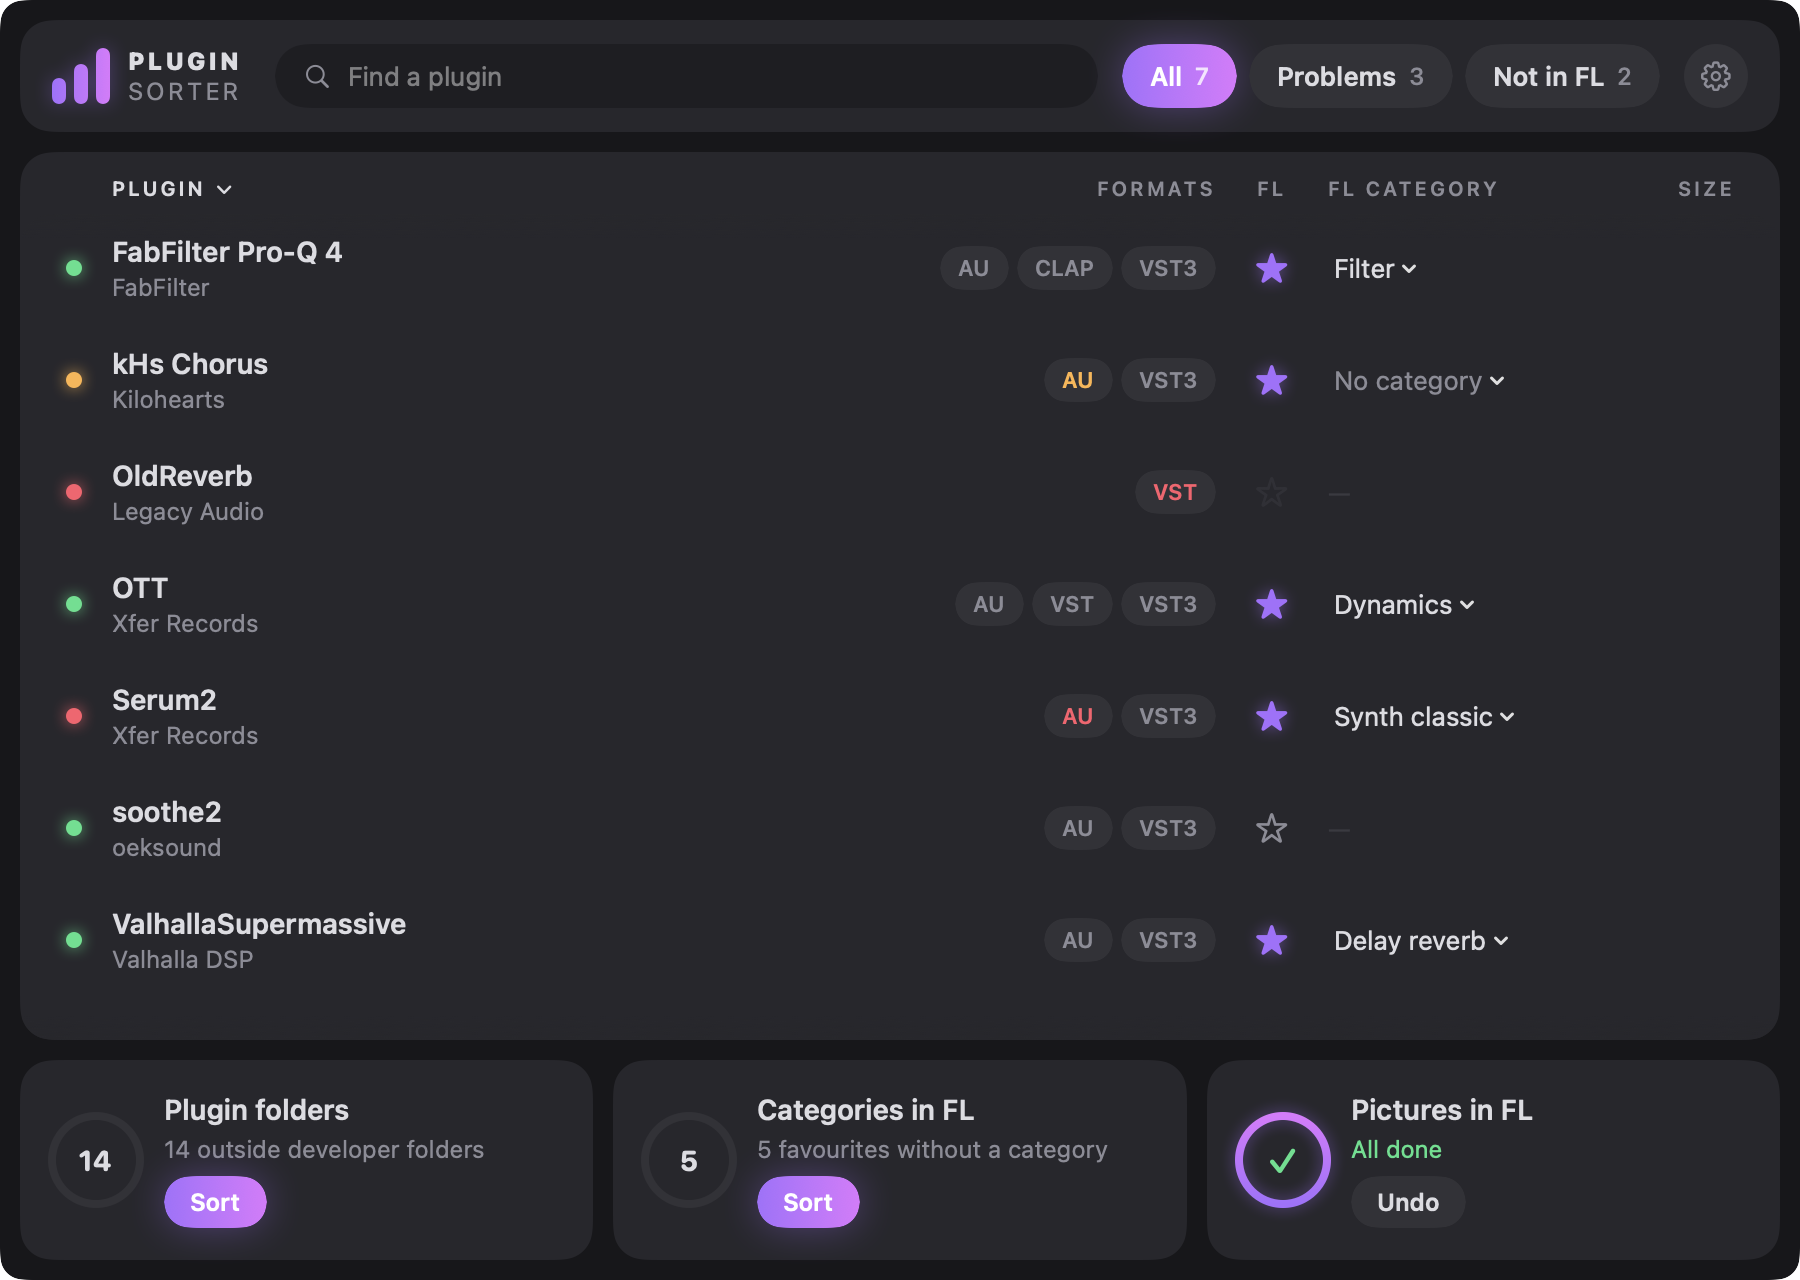
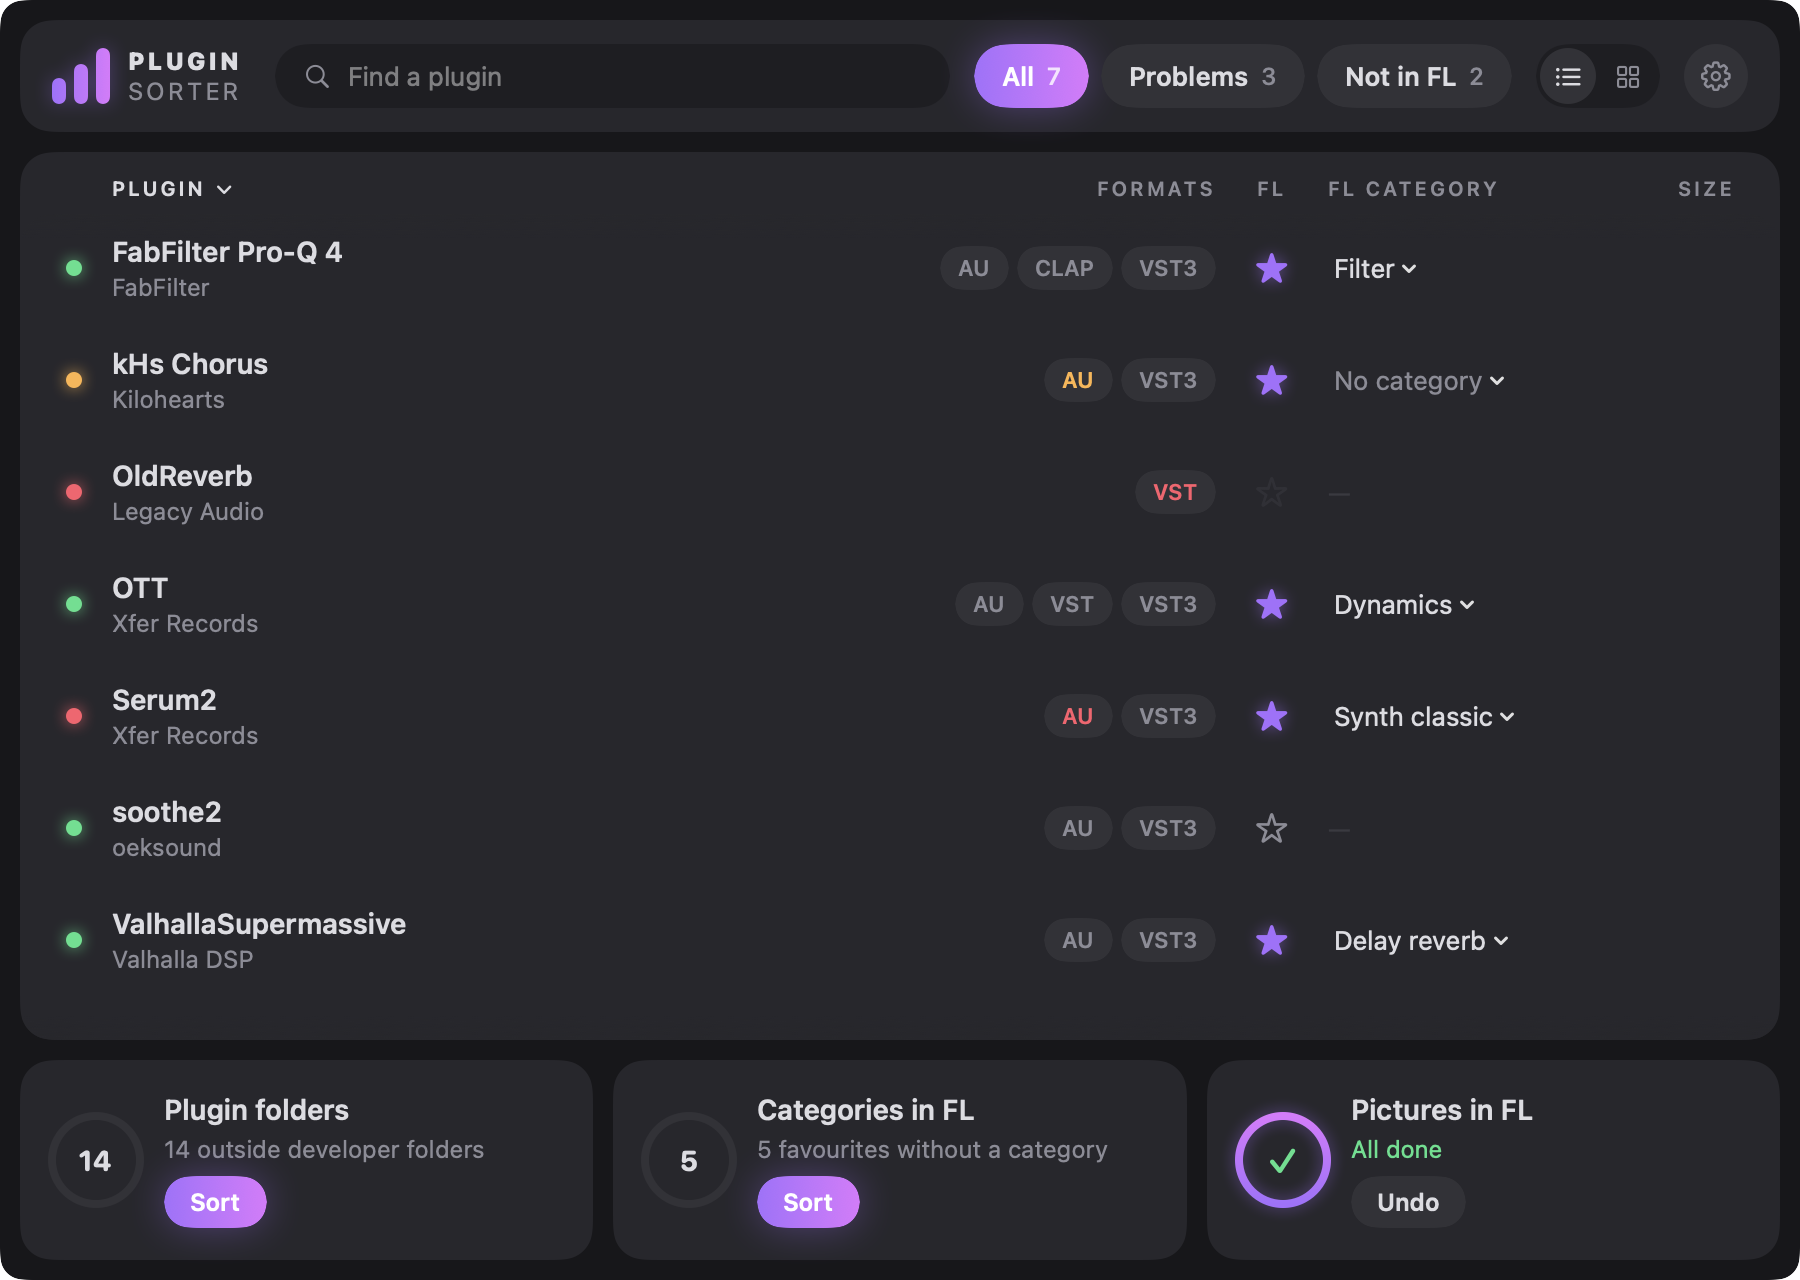
docs: show the card view in the README and screenshots

Changed region(s): [[0.5289, 0.0312, 0.9022, 0.0938]]

diff --git a/tools/snapshot.swift b/tools/snapshot.swift
@@ -1,5 +1,5 @@
 // Renders the main window with demo data for the README:
-// snapshot <out.png> [lang] [main|main-expanded|banner|sheet|settings] [violet|mint|amber|ice]
+// snapshot <out.png> [lang] [main|main-expanded|cards|cards-panel|banner|sheet|settings] [violet|mint|amber|ice]
 import SwiftUI
 import AppKit
 
@@ -51,6 +51,11 @@ struct Snapshot {
             let (favorites, titles) = demoFavorites(for: manager, in: dir)
             model = AppModel(sorter: sorter, manager: manager, favorites: favorites, pictures: demoLibrary(titles, in: dir))
             model.flRoot = dir
+        }
+        // Always set the view: UserDefaults persist between runs of this tool
+        UserDefaults.standard.set(mode.hasPrefix("cards") ? "cards" : "list", forKey: "viewMode")
+        if mode == "cards-panel" {
+            model.expanded = model.rows.first { $0.name == "Serum2" }?.id
         }
         if mode == "banner" {
             model.banner = Banner(source: .favorites(.sorted(12)), isError: false, undo: {})

diff --git a/README.ru.md b/README.ru.md
@@ -118,6 +118,14 @@ cd plugin-sorter
 - **Звезда** добавляет плагин в браузер и плагин-пикер FL или убирает; в раскрытой строке можно
   выбрать отдельный формат. **Категория** рядом — меню папок категорий FL.
 - **Клик по заголовку столбца** сортирует по имени или по размеру.
+- **Переключиться на карточки** можно кнопкой вверху справа, рядом с шестерёнкой. Каждый плагин становится
+  маленькой плиткой с картинкой из FL; плагины без картинки получают автоматическую карточку, видную только
+  здесь. Клик по плитке открывает подробности в панели справа, как область просмотра в Finder. Закрыть её
+  можно крестиком, клавишей Esc или повторным кликом по плитке. Выбранный вид запоминается.
+
+<p align="center">
+  <img src="docs/screenshot-cards.png" width="760" alt="Плагины в виде карточек, один открыт в панели">
+</p>
 
 Внизу — три дела, у каждого видно, сколько осталось:
 

diff --git a/README.md b/README.md
@@ -117,6 +117,14 @@ plugin with all its formats. Each row shows whether it works, whether it's in FL
 - **The star** adds the plugin to FL's browser and plugin picker or removes it; inside the row, each
   format can be picked on its own. **The category** next to it is a menu of FL's category folders.
 - **Click a column title** to sort by name or by size.
+- **Switch to cards** with the button at the top right, next to the gear. Each plugin becomes a small
+  tile with its picture from FL; plugins without one get a generated card, shown only here. A click on
+  a tile opens its details in a panel on the right, as in Finder's preview pane. Close it with the cross,
+  Esc or another click on the tile. The app remembers which view you chose.
+
+<p align="center">
+  <img src="docs/screenshot-cards.png" width="760" alt="Plugins as cards, with one open in the panel">
+</p>
 
 Three jobs sit at the bottom, each showing what's left:
 
